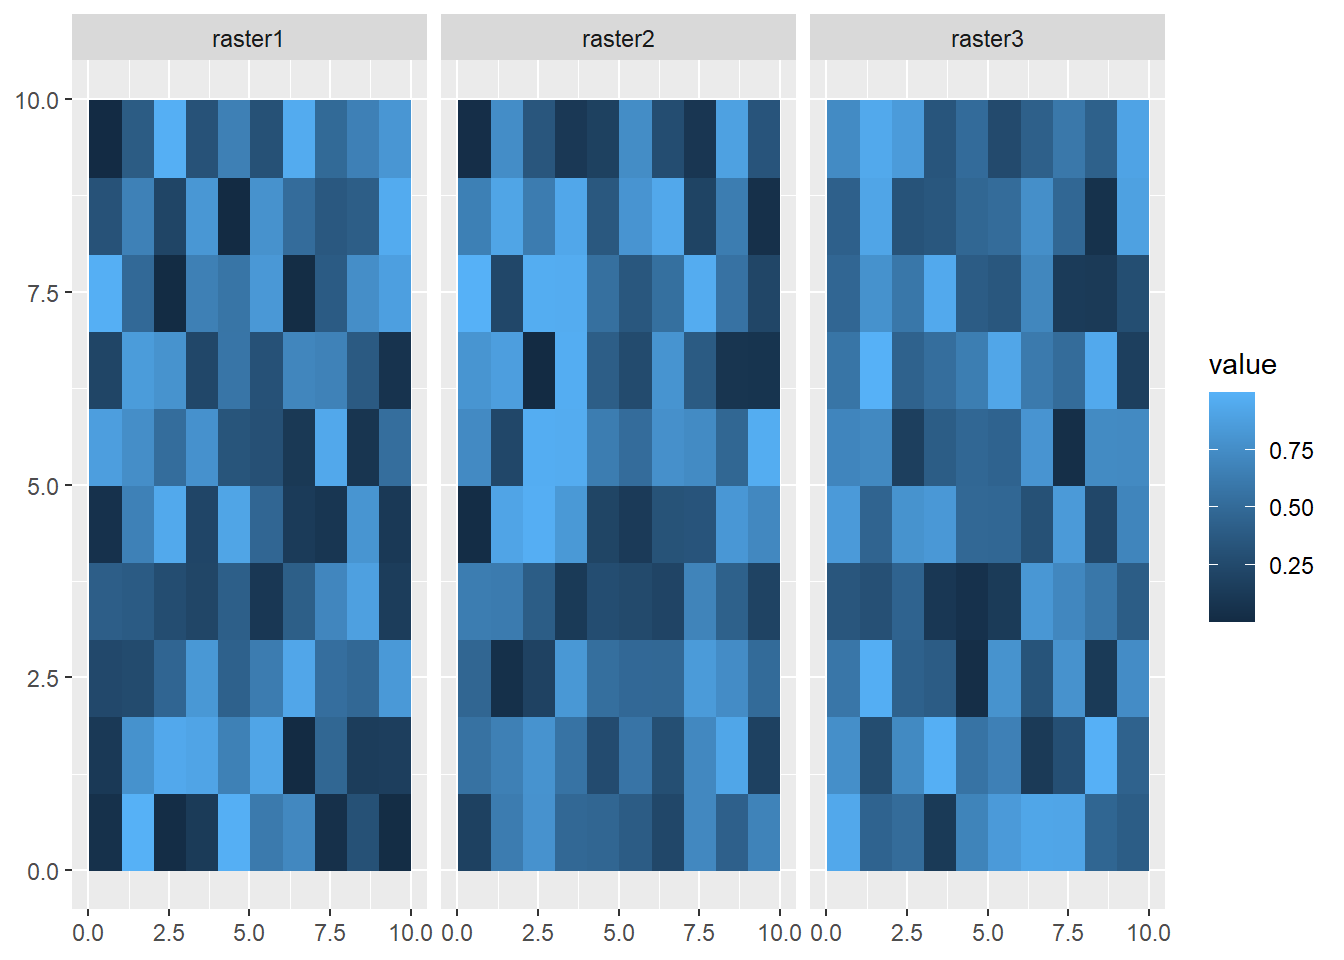
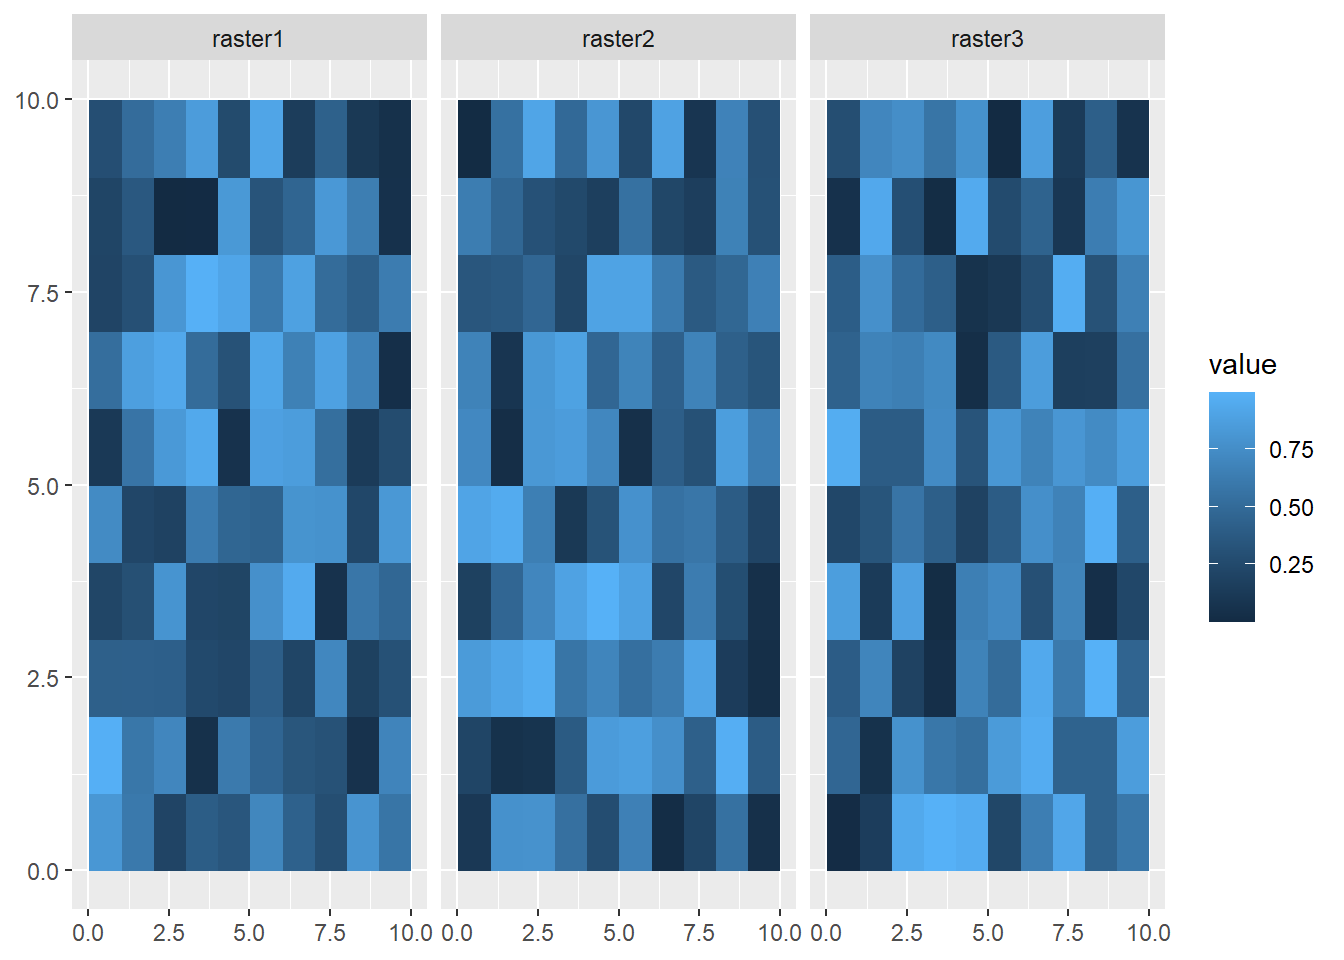
Add files via upload

diff --git a/env170/Week9/Week9Lab/01_RasterData.html b/env170/Week9/Week9Lab/01_RasterData.html
@@ -200,8 +200,8 @@ pre > code.sourceCode > span > a:first-child::before { text-decoration: underlin
 <span id="cb1-2"><a href="#cb1-2" aria-hidden="true" tabindex="-1"></a>randomValues<span class="ot">&lt;-</span><span class="fu">rnorm</span>(<span class="dv">10000</span>,<span class="dv">0</span>,<span class="dv">1</span>)</span>
 <span id="cb1-3"><a href="#cb1-3" aria-hidden="true" tabindex="-1"></a>randomValues[<span class="dv">1</span><span class="sc">:</span><span class="dv">10</span>]</span></code><button title="Copy to Clipboard" class="code-copy-button"><i class="bi"></i></button></pre></div>
 <div class="cell-output cell-output-stdout">
-<pre><code> [1]  0.4815981  0.4892307 -0.4872740 -0.6054691 -0.5915479  0.2240629
- [7] -1.3027638 -0.3034218  0.7037910  2.0312183</code></pre>
+<pre><code> [1]  0.3650247  0.7832691  0.3042406 -0.3987446 -1.4976881  1.1045793
+ [7]  1.8300398 -1.7650171  0.4452102  1.7652971</code></pre>
 </div>
 </div>
 <p>Here, we’re using square brackets to look at the first ten of these random values. Now let’s say we want to take this and turn it into a matrix with 100 rows and 100 columns. We can use our <strong>randomValues</strong> as an argument in the <code>matrix</code> function, along with arguments for the number of rows (<strong>nrow</strong>) and columns (<strong>ncol</strong>):</p>
@@ -211,17 +211,17 @@ pre > code.sourceCode > span > a:first-child::before { text-decoration: underlin
 <span id="cb3-3"><a href="#cb3-3" aria-hidden="true" tabindex="-1"></a><span class="co">#Show first ten rows of first three columns</span></span>
 <span id="cb3-4"><a href="#cb3-4" aria-hidden="true" tabindex="-1"></a>randomMatrix[<span class="dv">1</span><span class="sc">:</span><span class="dv">10</span>,<span class="dv">1</span><span class="sc">:</span><span class="dv">3</span>]</span></code><button title="Copy to Clipboard" class="code-copy-button"><i class="bi"></i></button></pre></div>
 <div class="cell-output cell-output-stdout">
-<pre><code>            [,1]         [,2]       [,3]
- [1,]  0.4815981  2.480518365  0.8019635
- [2,]  0.4892307  0.008974824 -0.7268542
- [3,] -0.4872740 -1.059949598  1.0804942
- [4,] -0.6054691  0.844388995  0.9780196
- [5,] -0.5915479  0.581425176  1.7163744
- [6,]  0.2240629 -0.149400051  0.7089475
- [7,] -1.3027638 -0.272225604  0.6686689
- [8,] -0.3034218 -0.024754835  0.6252871
- [9,]  0.7037910 -1.120705240  0.2958668
-[10,]  2.0312183  0.657129012  1.5200156</code></pre>
+<pre><code>            [,1]        [,2]       [,3]
+ [1,]  0.3650247  0.52278568  1.2027860
+ [2,]  0.7832691 -0.75081240  0.5711899
+ [3,]  0.3042406 -0.04451878  1.8237723
+ [4,] -0.3987446 -0.82064860 -0.9432617
+ [5,] -1.4976881  1.83387313  1.2915272
+ [6,]  1.1045793 -1.07696849 -0.1493880
+ [7,]  1.8300398 -0.22584977  1.4808539
+ [8,] -1.7650171 -0.56163478 -0.8248841
+ [9,]  0.4452102  1.29103069  0.8245471
+[10,]  1.7652971  1.27003436  1.5546683</code></pre>
 </div>
 </div>
 <p>This gives us a sense of what the matrix looks like: the far left shows row numbers, while the top has column numbers, both in square brackets. The numbers in between are the random values we generated, but now organized in a 100 x 100 matrix. We can see how many rows and columns are in the matrix using the <code>dim</code> function:</p>
@@ -244,8 +244,8 @@ extent      : 0, 100, 0, 100  (xmin, xmax, ymin, ymax)
 coord. ref. :  
 source(s)   : memory
 name        :     lyr.1 
-min value   : -3.557857 
-max value   :  3.933087 </code></pre>
+min value   : -3.818598 
+max value   :  3.684048 </code></pre>
 </div>
 </div>
 <p>This gives us some information about the spatRaster object, including:</p>
@@ -279,8 +279,8 @@ extent      : 0, 100, 0, 100  (xmin, xmax, ymin, ymax)
 coord. ref. : lon/lat WGS 84 (EPSG:4326) 
 source(s)   : memory
 name        :     lyr.1 
-min value   : -3.557857 
-max value   :  3.933087 </code></pre>
+min value   : -3.818598 
+max value   :  3.684048 </code></pre>
 </div>
 </div>
 <p>Now when we plot the data, the coordinates (position in the matrix) are given as degrees longitude and latitude:</p>
@@ -301,7 +301,7 @@ Try it yourself!
 </div>
 </div>
 <div class="callout-body-container callout-body">
-<p>Try and run through the example above again, but when you create the randomValues vector, use the sort function</p>
+<p>Try and run through the example above again, but when you create the randomValues vector, use the sort function to sort the values from least to greatest. What do you think will happen?</p>
 </div>
 </div>
 <p>One more thing to be aware of is <em>multirasters</em>: these are raster datasets with multiple layers. These can be useful for storing different kinds of data within the same spatRaster object, or storing raster data that’s been collected over time. To do this, we’ll generate three random rasters, and then combine them just as we would a vector:</p>
@@ -334,9 +334,9 @@ resolution  : 1, 1  (x, y)
 extent      : 0, 10, 0, 10  (xmin, xmax, ymin, ymax)
 coord. ref. :  
 source(s)   : memory
-names       :       lyr.1,      lyr.1,      lyr.1 
-min values  : 0.005984849, 0.00604978, 0.03306967 
-max values  : 0.995886470, 0.99639613, 0.99844121 </code></pre>
+names       :       lyr.1,      lyr.1,       lyr.1 
+min values  : 0.002778357, 0.00704341, 0.001061728 
+max values  : 0.993688135, 0.99614789, 0.997564374 </code></pre>
 </div>
 </div>
 <p>We can access layer names using the names function, and assign a vector of layer names as character values:</p>
@@ -350,9 +350,9 @@ resolution  : 1, 1  (x, y)
 extent      : 0, 10, 0, 10  (xmin, xmax, ymin, ymax)
 coord. ref. :  
 source(s)   : memory
-names       :     raster1,    raster2,    raster3 
-min values  : 0.005984849, 0.00604978, 0.03306967 
-max values  : 0.995886470, 0.99639613, 0.99844121 </code></pre>
+names       :     raster1,    raster2,     raster3 
+min values  : 0.002778357, 0.00704341, 0.001061728 
+max values  : 0.993688135, 0.99614789, 0.997564374 </code></pre>
 </div>
 </div>
 <p>Visualizing all the layers here requires us to use the <code>facet_wrap</code> function, and the argument we use is <code>~lyr</code>. This is accessing the <strong>lyr</strong> (layer) property of the <strong>spatRaster</strong> object.</p>
@@ -595,7 +595,7 @@ Try it yourself!
 </div>
 </div>
 <div class="callout-body-container callout-body">
-<p>Try seeing if you can ta mean of the first twelve layers of the rainfall data and convert it into inches.</p>
+<p>Try seeing if you can take the mean of the first twelve layers of the rainfall data and convert it into inches.</p>
 </div>
 </div>
 

diff --git a/env170/Week9/Week9Lab/LabExercise9.html b/env170/Week9/Week9Lab/LabExercise9.html
@@ -143,7 +143,7 @@ ul.task-list li input[type="checkbox"] {
 
 </header>
 
-<p>In this exercise, you’ll be using the <strong>terra</strong> and <strong>tidyterra</strong> packages to transform a raster dataset, sample it, and then visualize it. The data you’ll be using is satellite imagery from an area near Lake Turkana in Kenya. These data contain four layers: three values that are in the visual spectrum (red, green, and blue), and then one in near-infrared (nir).</p>
+<p>In this exercise, you’ll be using the <strong>terra</strong> and <strong>tidyterra</strong> packages to transform a raster dataset, sample it, and then visualize it. The data you’ll be using is satellite imagery from an area near Lake Turkana in Kenya (eastTurkana.tif). These data contain four layers: three values that are in the visual spectrum (red, green, and blue), and then one in near-infrared (nir).</p>
 <ul>
 <li><p>These sensor reflectance values, called “digital numbers”, are highly exaggerated. To convert them to reasonable reflectance values, we need to divide them by 10000.</p></li>
 <li><p>Calculate the Normalized Difference Vegetation Index: a measure of vegetation greenness that is used as an indicator of vegetation cover. The equation for this is NDVI = (NIR — RED)/(NIR + RED)</p></li>
